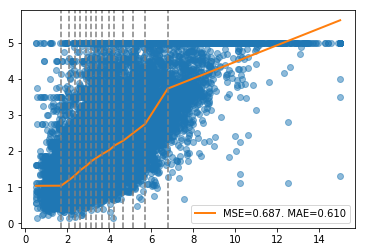
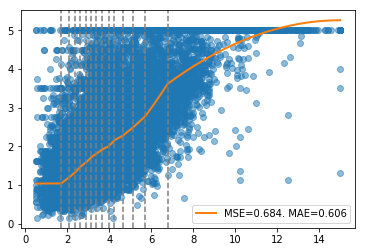
Update README.rst

diff --git a/README.rst b/README.rst
@@ -50,6 +50,8 @@ Please visit the RoPWR documentation (**current** release) http://gnpalencia.org
 Examples:
 ---------
 
+To get us started, let’s load a well-known dataset from the UCI repository and transform the data into a ``pandas.DataFrame``.
+
 .. code-block:: python
 
    import pandas as pd
@@ -61,6 +63,7 @@ Examples:
    x = df["NOX"].values
    y = data.target
 
+To devise split points, we use the implementation of the unsupervised technique equal-size or equal-frequency interval implemented in scikit-learn ``KBinsDiscretizer``.
 
 .. code-block:: python
 
@@ -70,6 +73,8 @@ Examples:
    est = KBinsDiscretizer(n_bins=10, strategy="quantile")
    est.fit(x.reshape(-1, 1), y)
    splits = est.bin_edges_[0][1:-1]
+
+.. code-block:: python
 
    pw = RobustPWRegression(objective="l2", degree=1, monotonic_trend=None)
    pw.fit(x, y, splits)
@@ -87,10 +92,66 @@ Examples:
    :target: doc/source/_images/pw_convex.png
 
 
+A regularization term using :math:`l_1−`norm (Lasso) :math:`l_2−`norm (Ridge) can be added to the objective function.
+
 .. code-block:: python
+   
+   from sklearn.datasets import fetch_california_housing
+
+   data = fetch_california_housing()
+
+   target = "target"
+   variable_names = data.feature_names
+   df = pd.DataFrame(data.data, columns=variable_names)
+   df[target] = data.target
+   x = df["MedInc"].values
+   y = df[target].values
+
+   est = KBinsDiscretizer(n_bins=15, strategy="quantile")
+   est.fit(x.reshape(-1, 1), y)
+   splits = est.bin_edges_[0][1:-1]
 
    pw = RobustPWRegression(objective="l1", degree=1, monotonic_trend="valley")
    pw.fit(x, y, splits)
 
 .. image:: doc/source/_images/pw_valley.png
    :target: doc/source/_images/pw_valley.png
+
+.. code-block:: python
+
+   pw = RobustPWRegression(objective="huber", monotonic_trend="ascending",
+                           degree=2, regularization="l1", verbose=True)
+   pw.fit(x, y, splits)
+
+.. code-block:: text
+
+   ECOS 2.0.7 - (C) embotech GmbH, Zurich Switzerland, 2012-15. Web: www.embotech.com/ECOS
+
+   It     pcost       dcost      gap   pres   dres    k/t    mu     step   sigma     IR    |   BT
+    0  +0.000e+00  -6.012e+03  +5e+05  8e-01  5e+00  1e+00  6e+00    ---    ---    2  1  - |  -  - 
+    1  +7.934e+02  -3.304e+03  +3e+05  7e-01  3e-01  2e+00  4e+00  0.4820  5e-01   2  1  1 |  0  0
+    2  +4.004e+03  +2.932e+03  +1e+05  3e-01  5e-02  8e-01  1e+00  0.7396  1e-01   2  1  1 |  0  0
+    3  +6.368e+03  +5.536e+03  +9e+04  2e-01  4e-02  7e-01  1e+00  0.5427  6e-01   1  1  1 |  0  0
+    4  +9.067e+03  +8.671e+03  +4e+04  1e-01  2e-02  3e-01  5e-01  0.5371  8e-02   1  2  1 |  0  0
+    5  +1.043e+04  +1.022e+04  +2e+04  6e-02  2e-02  2e-01  3e-01  0.6971  4e-01   2  2  2 |  0  0
+    6  +1.064e+04  +1.048e+04  +2e+04  5e-02  1e-02  1e-01  2e-01  0.9699  7e-01   2  2  1 |  0  0
+    7  +1.216e+04  +1.212e+04  +4e+03  1e-02  7e-03  2e-02  5e-02  0.7909  3e-02   2  2  2 |  0  0
+    8  +1.230e+04  +1.227e+04  +3e+03  7e-03  6e-03  2e-02  4e-02  0.4845  4e-01   1  2  1 |  0  0
+    9  +1.254e+04  +1.253e+04  +8e+02  2e-03  2e-03  5e-03  1e-02  0.8206  1e-01   2  2  2 |  0  0
+   10  +1.259e+04  +1.258e+04  +4e+02  1e-03  1e-03  2e-03  5e-03  0.5946  2e-01   2  1  2 |  0  0
+   11  +1.262e+04  +1.262e+04  +2e+02  4e-04  5e-04  1e-03  2e-03  0.6943  2e-01   2  2  2 |  0  0
+   12  +1.263e+04  +1.263e+04  +7e+01  2e-04  2e-04  3e-04  8e-04  0.9890  4e-01   2  1  1 |  0  0
+   13  +1.264e+04  +1.264e+04  +9e+00  2e-05  3e-05  5e-05  1e-04  0.8925  3e-02   2  1  1 |  0  0
+   14  +1.264e+04  +1.264e+04  +1e+00  3e-06  3e-06  6e-06  1e-05  0.8787  1e-02   2  1  1 |  0  0
+   15  +1.264e+04  +1.264e+04  +3e-01  8e-07  9e-07  2e-06  4e-06  0.9890  3e-01   2  1  1 |  0  0
+   16  +1.264e+04  +1.264e+04  +6e-02  1e-07  2e-07  3e-07  7e-07  0.8498  3e-02   2  1  1 |  0  0
+   17  +1.264e+04  +1.264e+04  +2e-02  5e-08  6e-08  1e-07  3e-07  0.7942  2e-01   2  1  1 |  0  0
+   18  +1.264e+04  +1.264e+04  +9e-03  2e-08  3e-08  5e-08  1e-07  0.7819  2e-01   2  1  1 |  0  0
+   19  +1.264e+04  +1.264e+04  +1e-03  3e-09  4e-09  7e-09  2e-08  0.9584  1e-01   2  1  1 |  0  0
+   20  +1.264e+04  +1.264e+04  +3e-05  7e-11  7e-11  1e-10  3e-10  0.9824  1e-04   2  1  1 |  0  0
+
+   OPTIMAL (within feastol=7.0e-11, reltol=2.0e-09, abstol=2.6e-05).
+   Runtime: 2.713925 seconds.
+
+.. image:: doc/source/_images/pw_huber_reg_l1.png
+   :target: doc/source/_images/pw_huber_reg_l1.png
